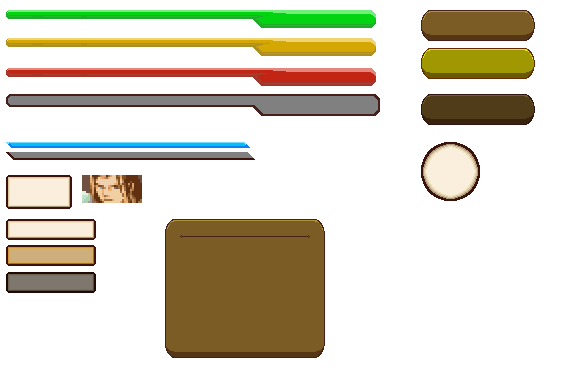
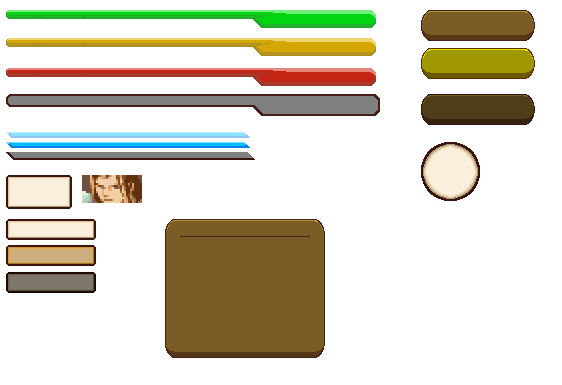
super bar feedback

Changed region(s): [[0.0, 0.3429, 0.4537, 0.374]]

diff --git a/src/Bars.cpp b/src/Bars.cpp
@@ -37,6 +37,9 @@ void Bars::draw()	{
 	updateBarGauge();
 
 	App->render->drawSprite(4, App->gui->getAtlas(), position.first, position.second, &bar_rect, 2, flipped, 1.0f, 0, 0, 0, false);
+	if (bar_type == SUPER_BAR && current_gauge == max_gauge)
+		App->render->drawSprite(5, App->gui->getAtlas(), position.first + relative_pos.x + aux_bar_pos, position.second + relative_pos.y, &curr_anim->GetCurrentFrame(), 2, flipped, 1.0f, 0, 0, 0, false);
+	else	
 	App->render->drawSprite(5, App->gui->getAtlas(), position.first + relative_pos.x + aux_bar_pos, position.second + relative_pos.y, &current_gauge_rect, 2, flipped, 1.0f, 0, 0, 0, false);
 }
 
@@ -87,6 +90,11 @@ void Bars::loadGuiFromAtlas()	{
 		gauge = super.child("gauge");
 		getSection({ border.attribute("x").as_int(), border.attribute("y").as_int(), border.attribute("w").as_int(), border.attribute("h").as_int() },
 		{ gauge.attribute("x").as_int(),gauge.attribute("y").as_int(), gauge.attribute("w").as_int(), gauge.attribute("h").as_int() });
+		full_gauge.x = super.child("full_gauge").attribute("x").as_int();
+		full_gauge.y = super.child("full_gauge").attribute("y").as_int();
+		full_gauge.h = super.child("full_gauge").attribute("h").as_int();
+		full_gauge.w = super.child("full_gauge").attribute("w").as_int();
+		setAnimation();
 		break;
 	case SWAP_BAR:
 		break;
@@ -136,3 +144,11 @@ void Bars::calculateBarGauge() {
 
 }
 
+void Bars::setAnimation() {
+
+	super_anim.PushBack(current_gauge_rect);
+	super_anim.PushBack(full_gauge);
+	super_anim.speed = 0.1;
+	super_anim.loop = true;
+	curr_anim = &super_anim;
+}

diff --git a/src/Bars.h b/src/Bars.h
@@ -5,6 +5,7 @@
 #include "mdGuiManager.h"
 #include "SDL/include/SDL.h"
 #include "p2Point.h"
+#include "Animation.h"
 
 class Bars : public Widgets {
 public:
@@ -16,6 +17,8 @@ public:
 	void updateBarGauge();
 	void calculateBarGauge();
 	void loadGuiFromAtlas();
+	void setAnimation();
+
 
 private:
 	bar_types bar_type = NO_BAR;
@@ -23,6 +26,9 @@ private:
 	SDL_Rect gauge_rect;
 	SDL_Rect bar_rect;
 	SDL_Rect current_gauge_rect;
+	SDL_Rect full_gauge; 
+	Animation* curr_anim = nullptr;
+	Animation super_anim; 
 
 	int current_gauge = 0;
 	int max_gauge = 0;
